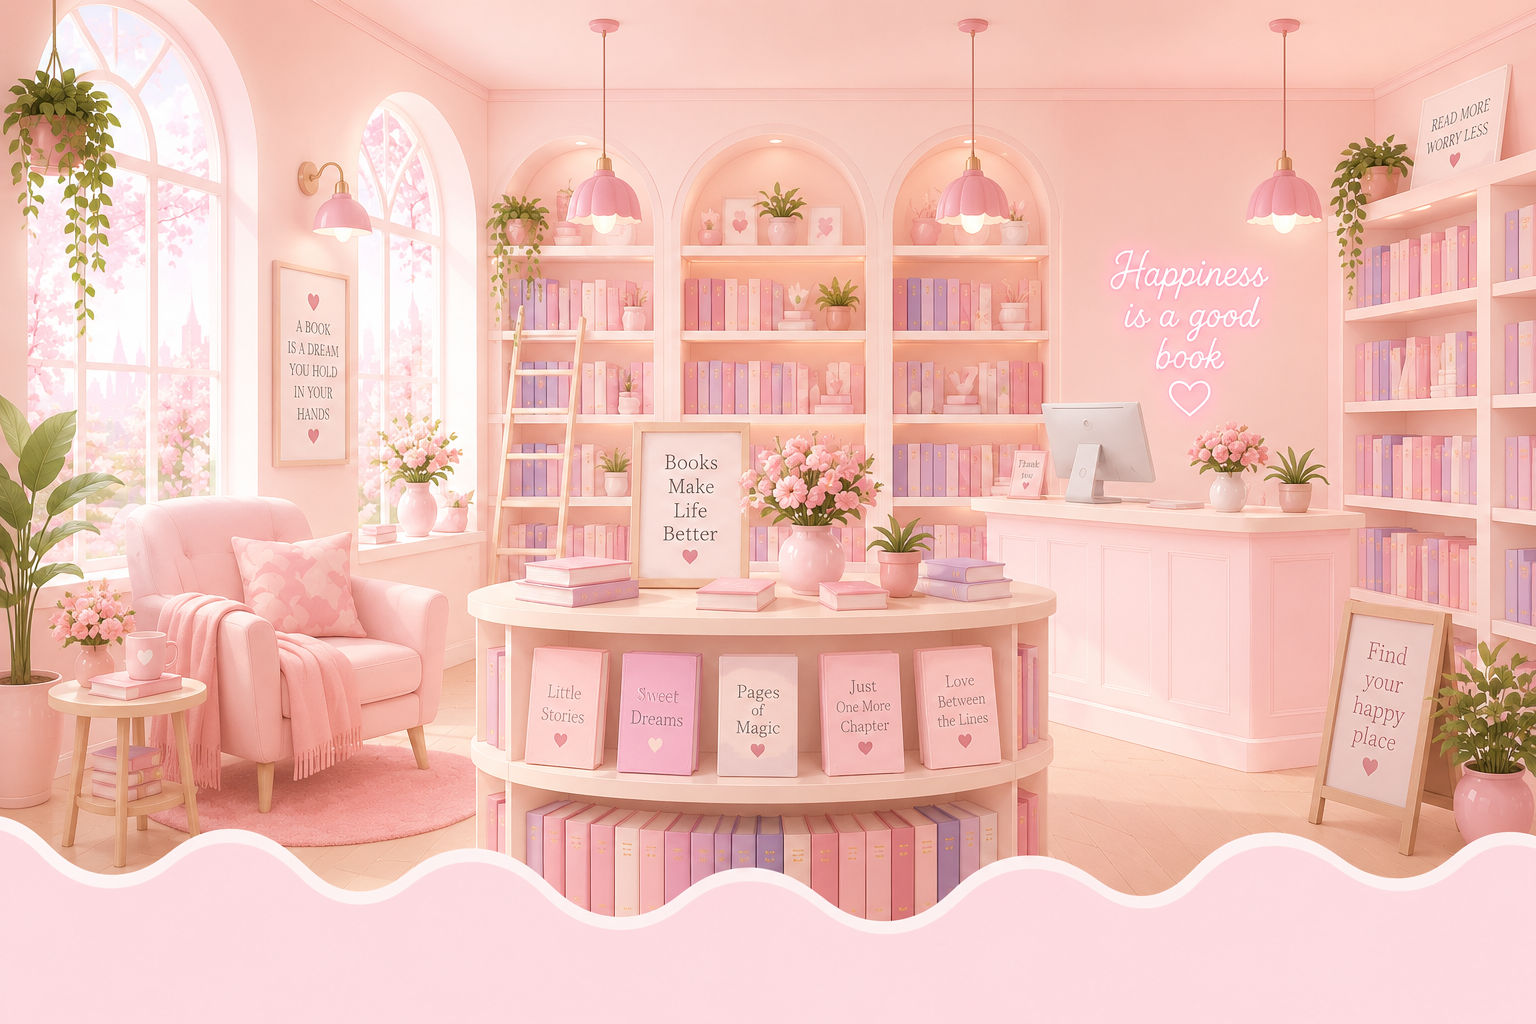
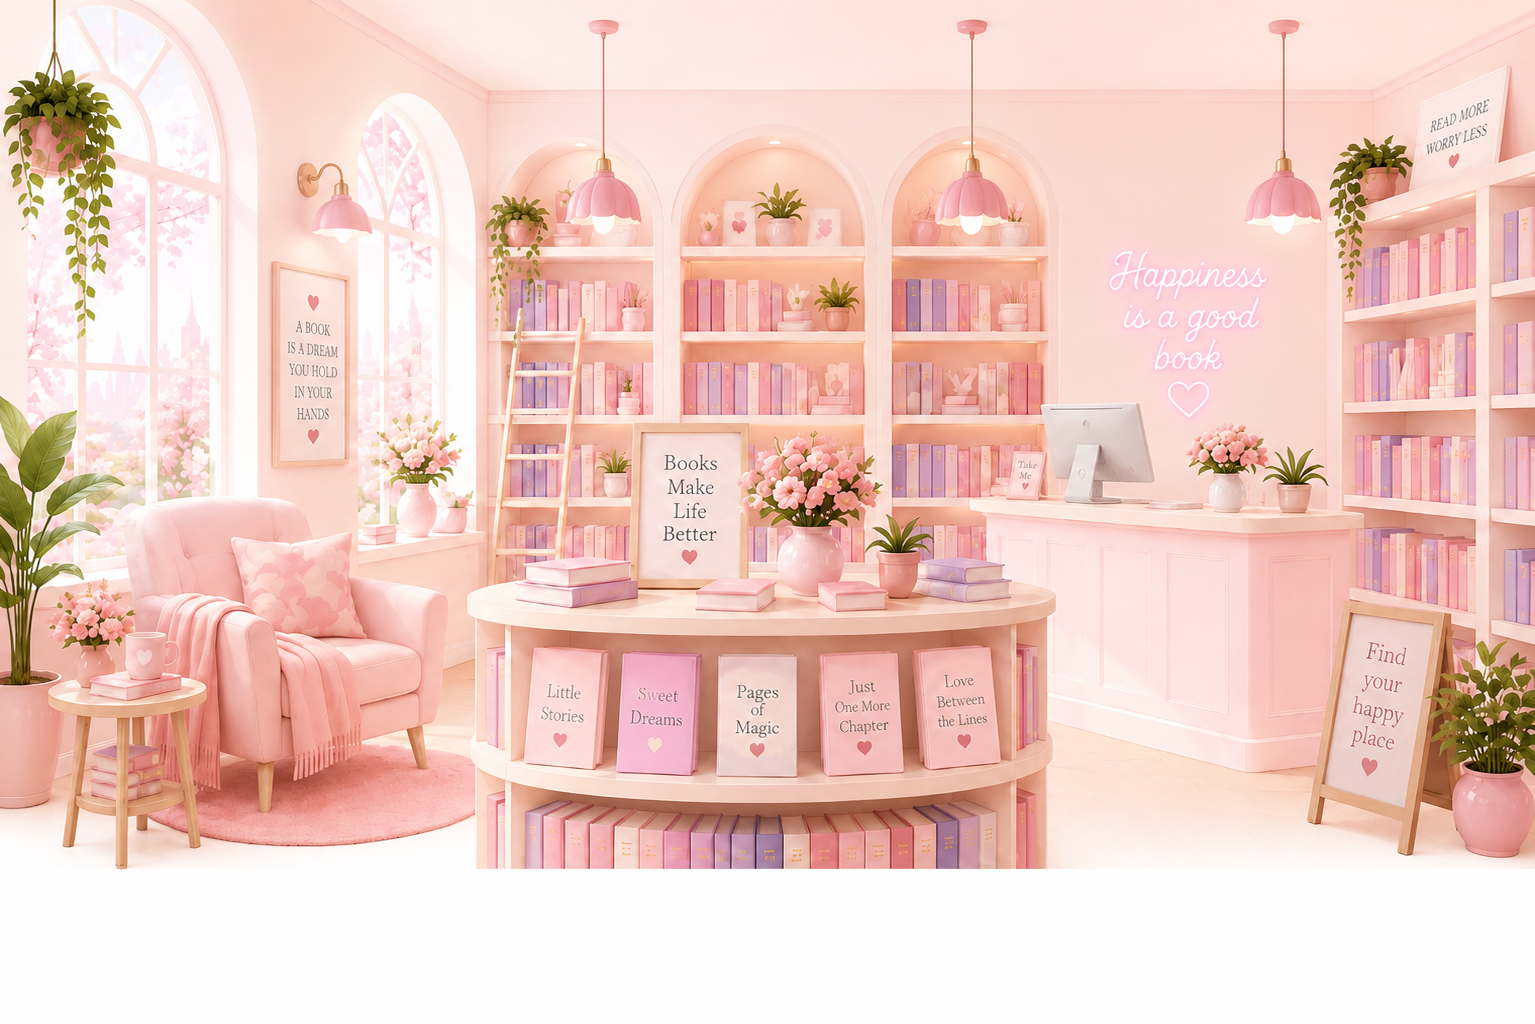
fix13

diff --git a/src/pages/Home.jsx b/src/pages/Home.jsx
@@ -172,7 +172,7 @@ function ContactSection() {
             </div>
             <div className="rounded-[32px] border border-[#E8D7EA] bg-white p-10 shadow-[0_26px_60px_-40px_rgba(78,42,132,0.22)]">
               <p className="text-[18px] font-semibold text-[#3F256D]">Email</p>
-              <p className="mt-4 text-[16px] text-[#5E4F78]">📧 <a href="mailto:[email redacted]" className="hover:underline">[email redacted]</a></p>
+              <p className="mt-4 text-[16px] text-[#5E4F78]">📧 <a href="mailto:[email redacted]" className="hover:underline">[email redacted]</a></p>
             </div>
             <div className="rounded-[32px] border border-[#E8D7EA] bg-white p-10 shadow-[0_26px_60px_-40px_rgba(78,42,132,0.22)]">
               <p className="text-[18px] font-semibold text-[#3F256D]">Phone</p>